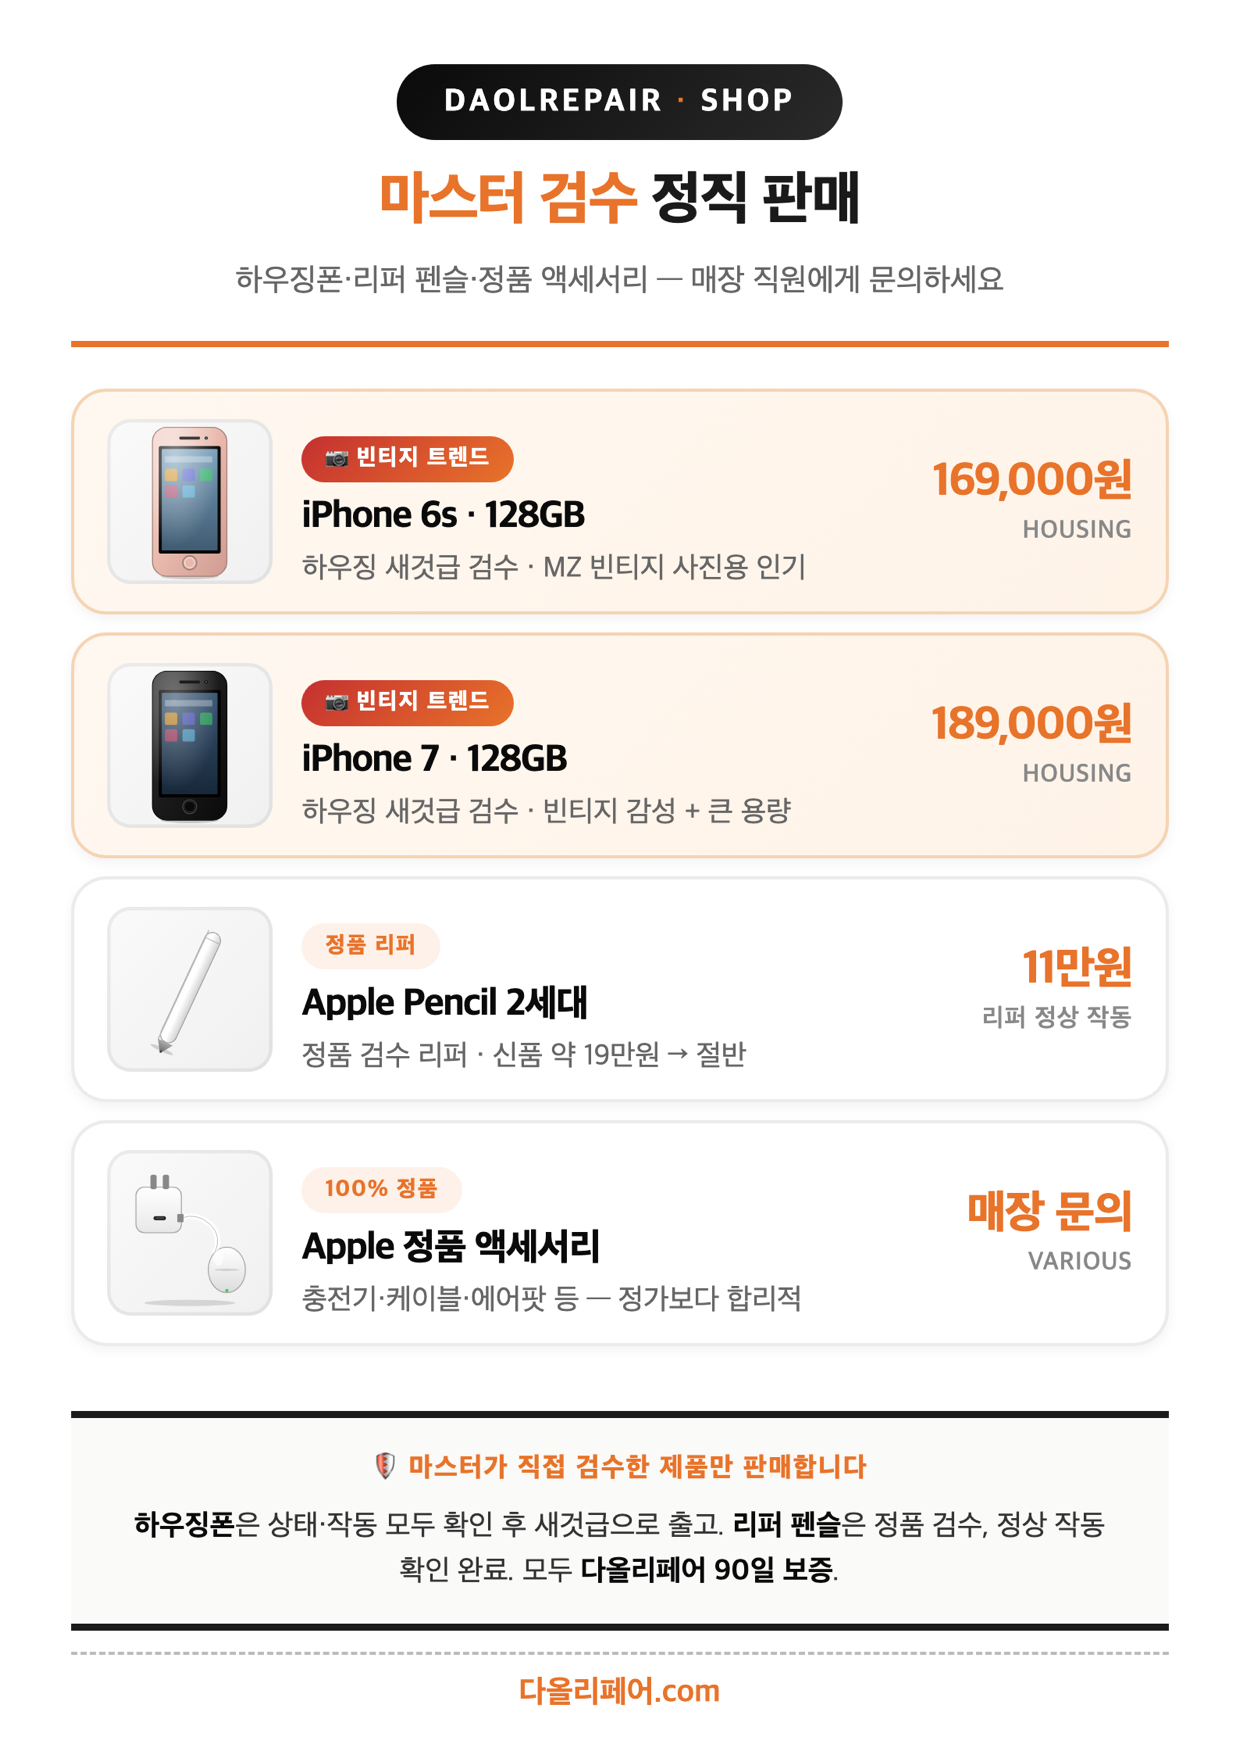
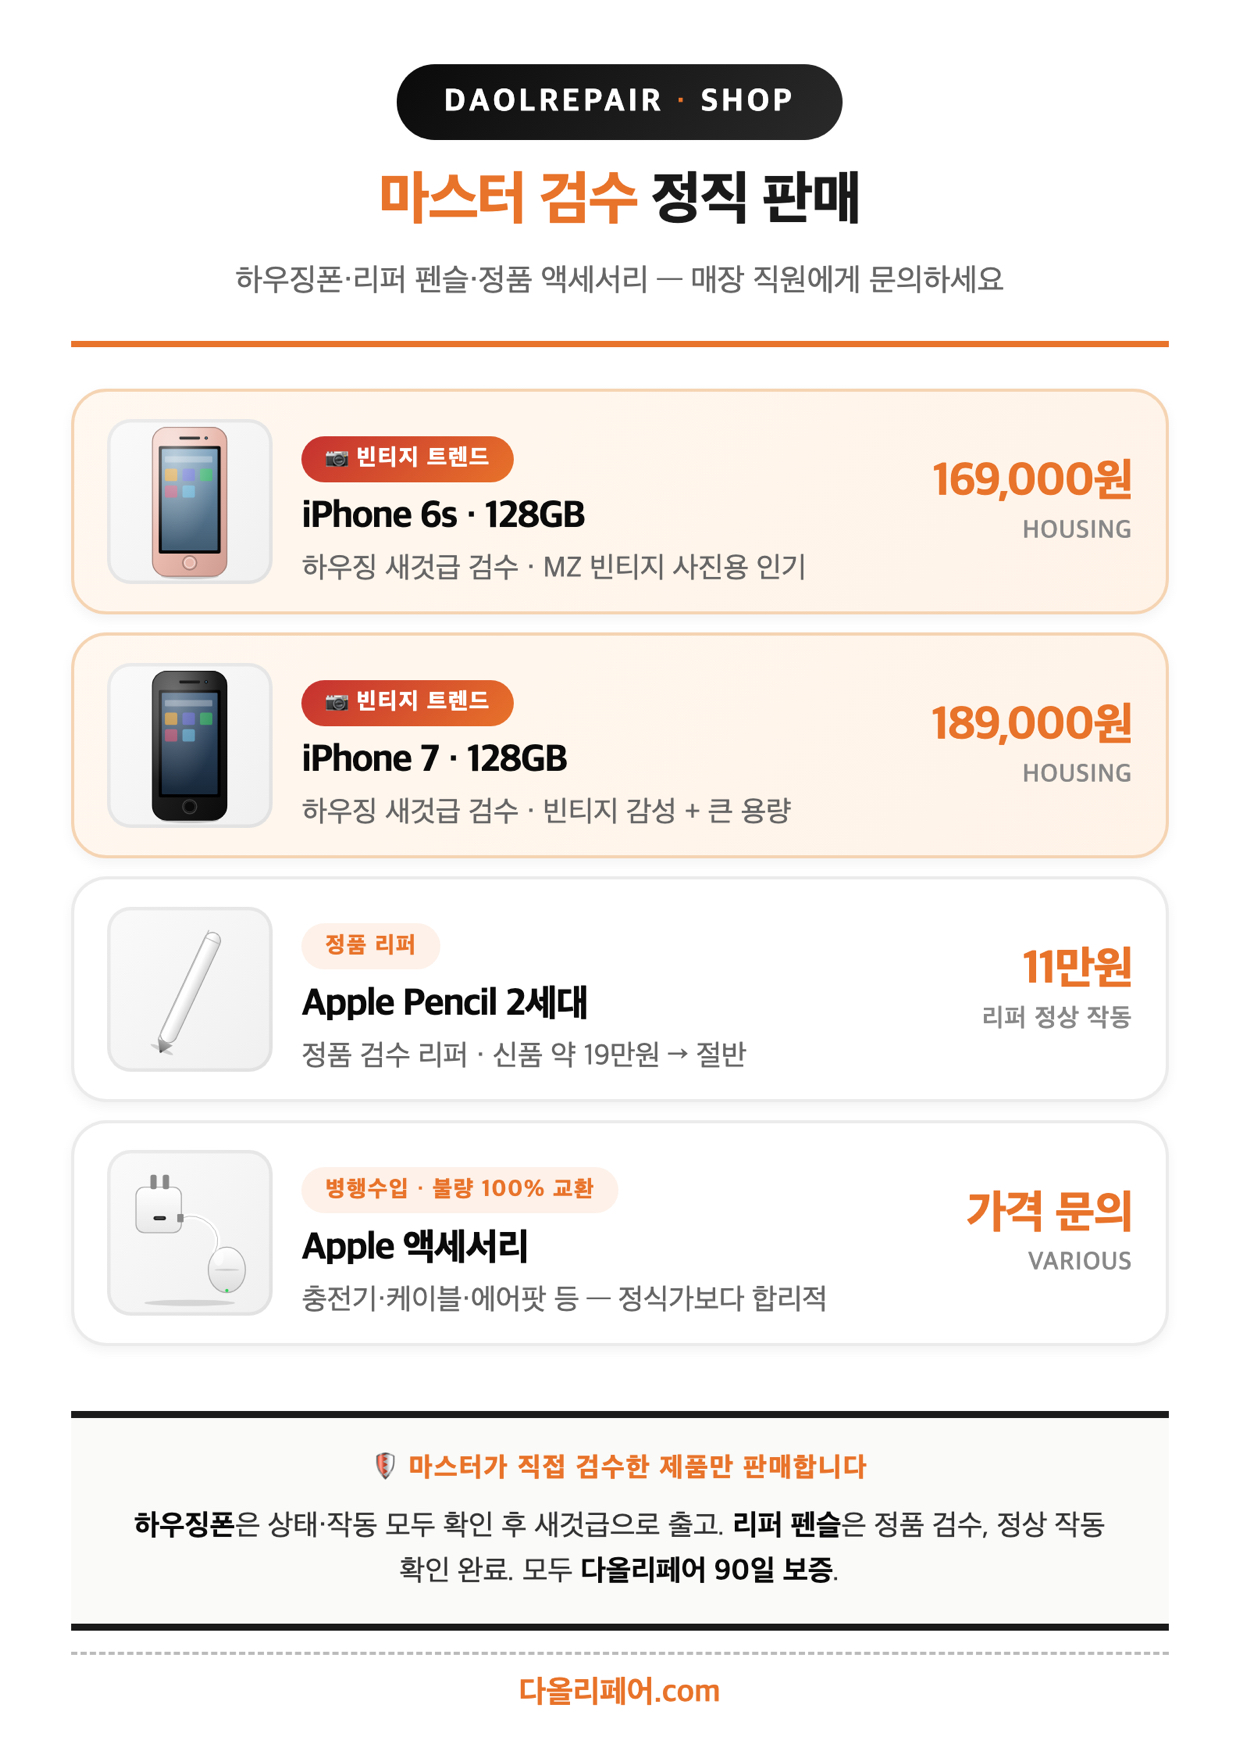
SHOP A6 — 액세서리: '100% 정품' → '병행수입 · 불량 100% 교환' + 가격 문의 (정직 톤)

Changed region(s): [[0.2758, 0.6487, 0.4903, 0.7414], [0.521, 0.7105, 0.6435, 0.7723], [0.7661, 0.6796, 0.8581, 0.7105]]

diff --git a/articles/notice-shop-print.html b/articles/notice-shop-print.html
@@ -420,11 +420,11 @@
           </svg>
         </div>
         <div class="a6-product-body">
-          <span class="a6-product-tag">100% 정품</span>
-          <div class="a6-product-name">Apple 정품 액세서리</div>
-          <div class="a6-product-desc">충전기·케이블·에어팟 등 — 정가보다 합리적</div>
+          <span class="a6-product-tag">병행수입 · 불량 100% 교환</span>
+          <div class="a6-product-name">Apple 액세서리</div>
+          <div class="a6-product-desc">충전기·케이블·에어팟 등 — 정식가보다 합리적</div>
         </div>
-        <div class="a6-product-price">매장 문의<small>VARIOUS</small></div>
+        <div class="a6-product-price">가격 문의<small>VARIOUS</small></div>
       </div>
     </div>
 

diff --git a/dist/articles/notice-shop-print.html b/dist/articles/notice-shop-print.html
@@ -420,11 +420,11 @@
           </svg>
         </div>
         <div class="a6-product-body">
-          <span class="a6-product-tag">100% 정품</span>
-          <div class="a6-product-name">Apple 정품 액세서리</div>
-          <div class="a6-product-desc">충전기·케이블·에어팟 등 — 정가보다 합리적</div>
+          <span class="a6-product-tag">병행수입 · 불량 100% 교환</span>
+          <div class="a6-product-name">Apple 액세서리</div>
+          <div class="a6-product-desc">충전기·케이블·에어팟 등 — 정식가보다 합리적</div>
         </div>
-        <div class="a6-product-price">매장 문의<small>VARIOUS</small></div>
+        <div class="a6-product-price">가격 문의<small>VARIOUS</small></div>
       </div>
     </div>
 
